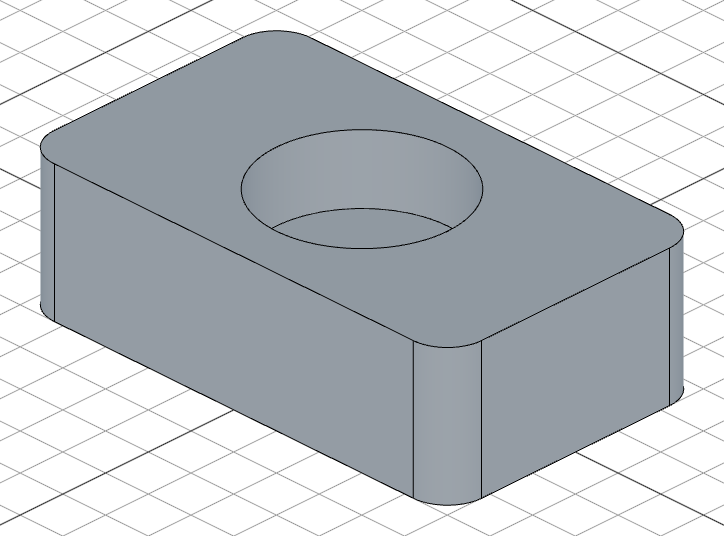
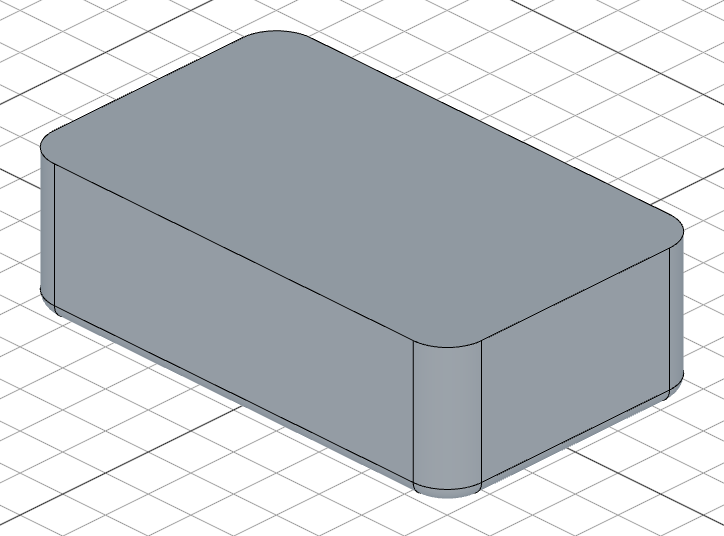
update your first model example

diff --git a/website/docs/getting-started/_examples/first-model-final.js b/website/docs/getting-started/_examples/first-model-final.js
@@ -1,5 +1,5 @@
-import { sketch, extrude, cut, fillet } from 'fluidcad/core';
-import { rect, circle } from 'fluidcad/core';
+import { sketch, extrude, fillet, shell } from 'fluidcad/core';
+import { rect } from 'fluidcad/core';
 
 sketch("xy", () => {
     rect(100, 60).center().radius(8)
@@ -7,10 +7,6 @@ sketch("xy", () => {
 
 const box = extrude(30)
 
-sketch(box.endFaces(), () => {
-    circle(40)
-})
-
-cut(15)
-
 fillet(3, box.startEdges())
+
+shell(-2, box.endFaces())

diff --git a/website/docs/getting-started/_examples/first-model-step5.js b/website/docs/getting-started/_examples/first-model-step5.js
@@ -1,5 +1,5 @@
-import { sketch, extrude, cut } from 'fluidcad/core';
-import { rect, circle } from 'fluidcad/core';
+import { sketch, extrude, fillet } from 'fluidcad/core';
+import { rect } from 'fluidcad/core';
 
 sketch("xy", () => {
     rect(100, 60).center().radius(8)
@@ -7,8 +7,4 @@ sketch("xy", () => {
 
 const box = extrude(30)
 
-sketch(box.endFaces(), () => {
-    circle(40)
-})
-
-cut(15)
+fillet(3, box.startEdges())